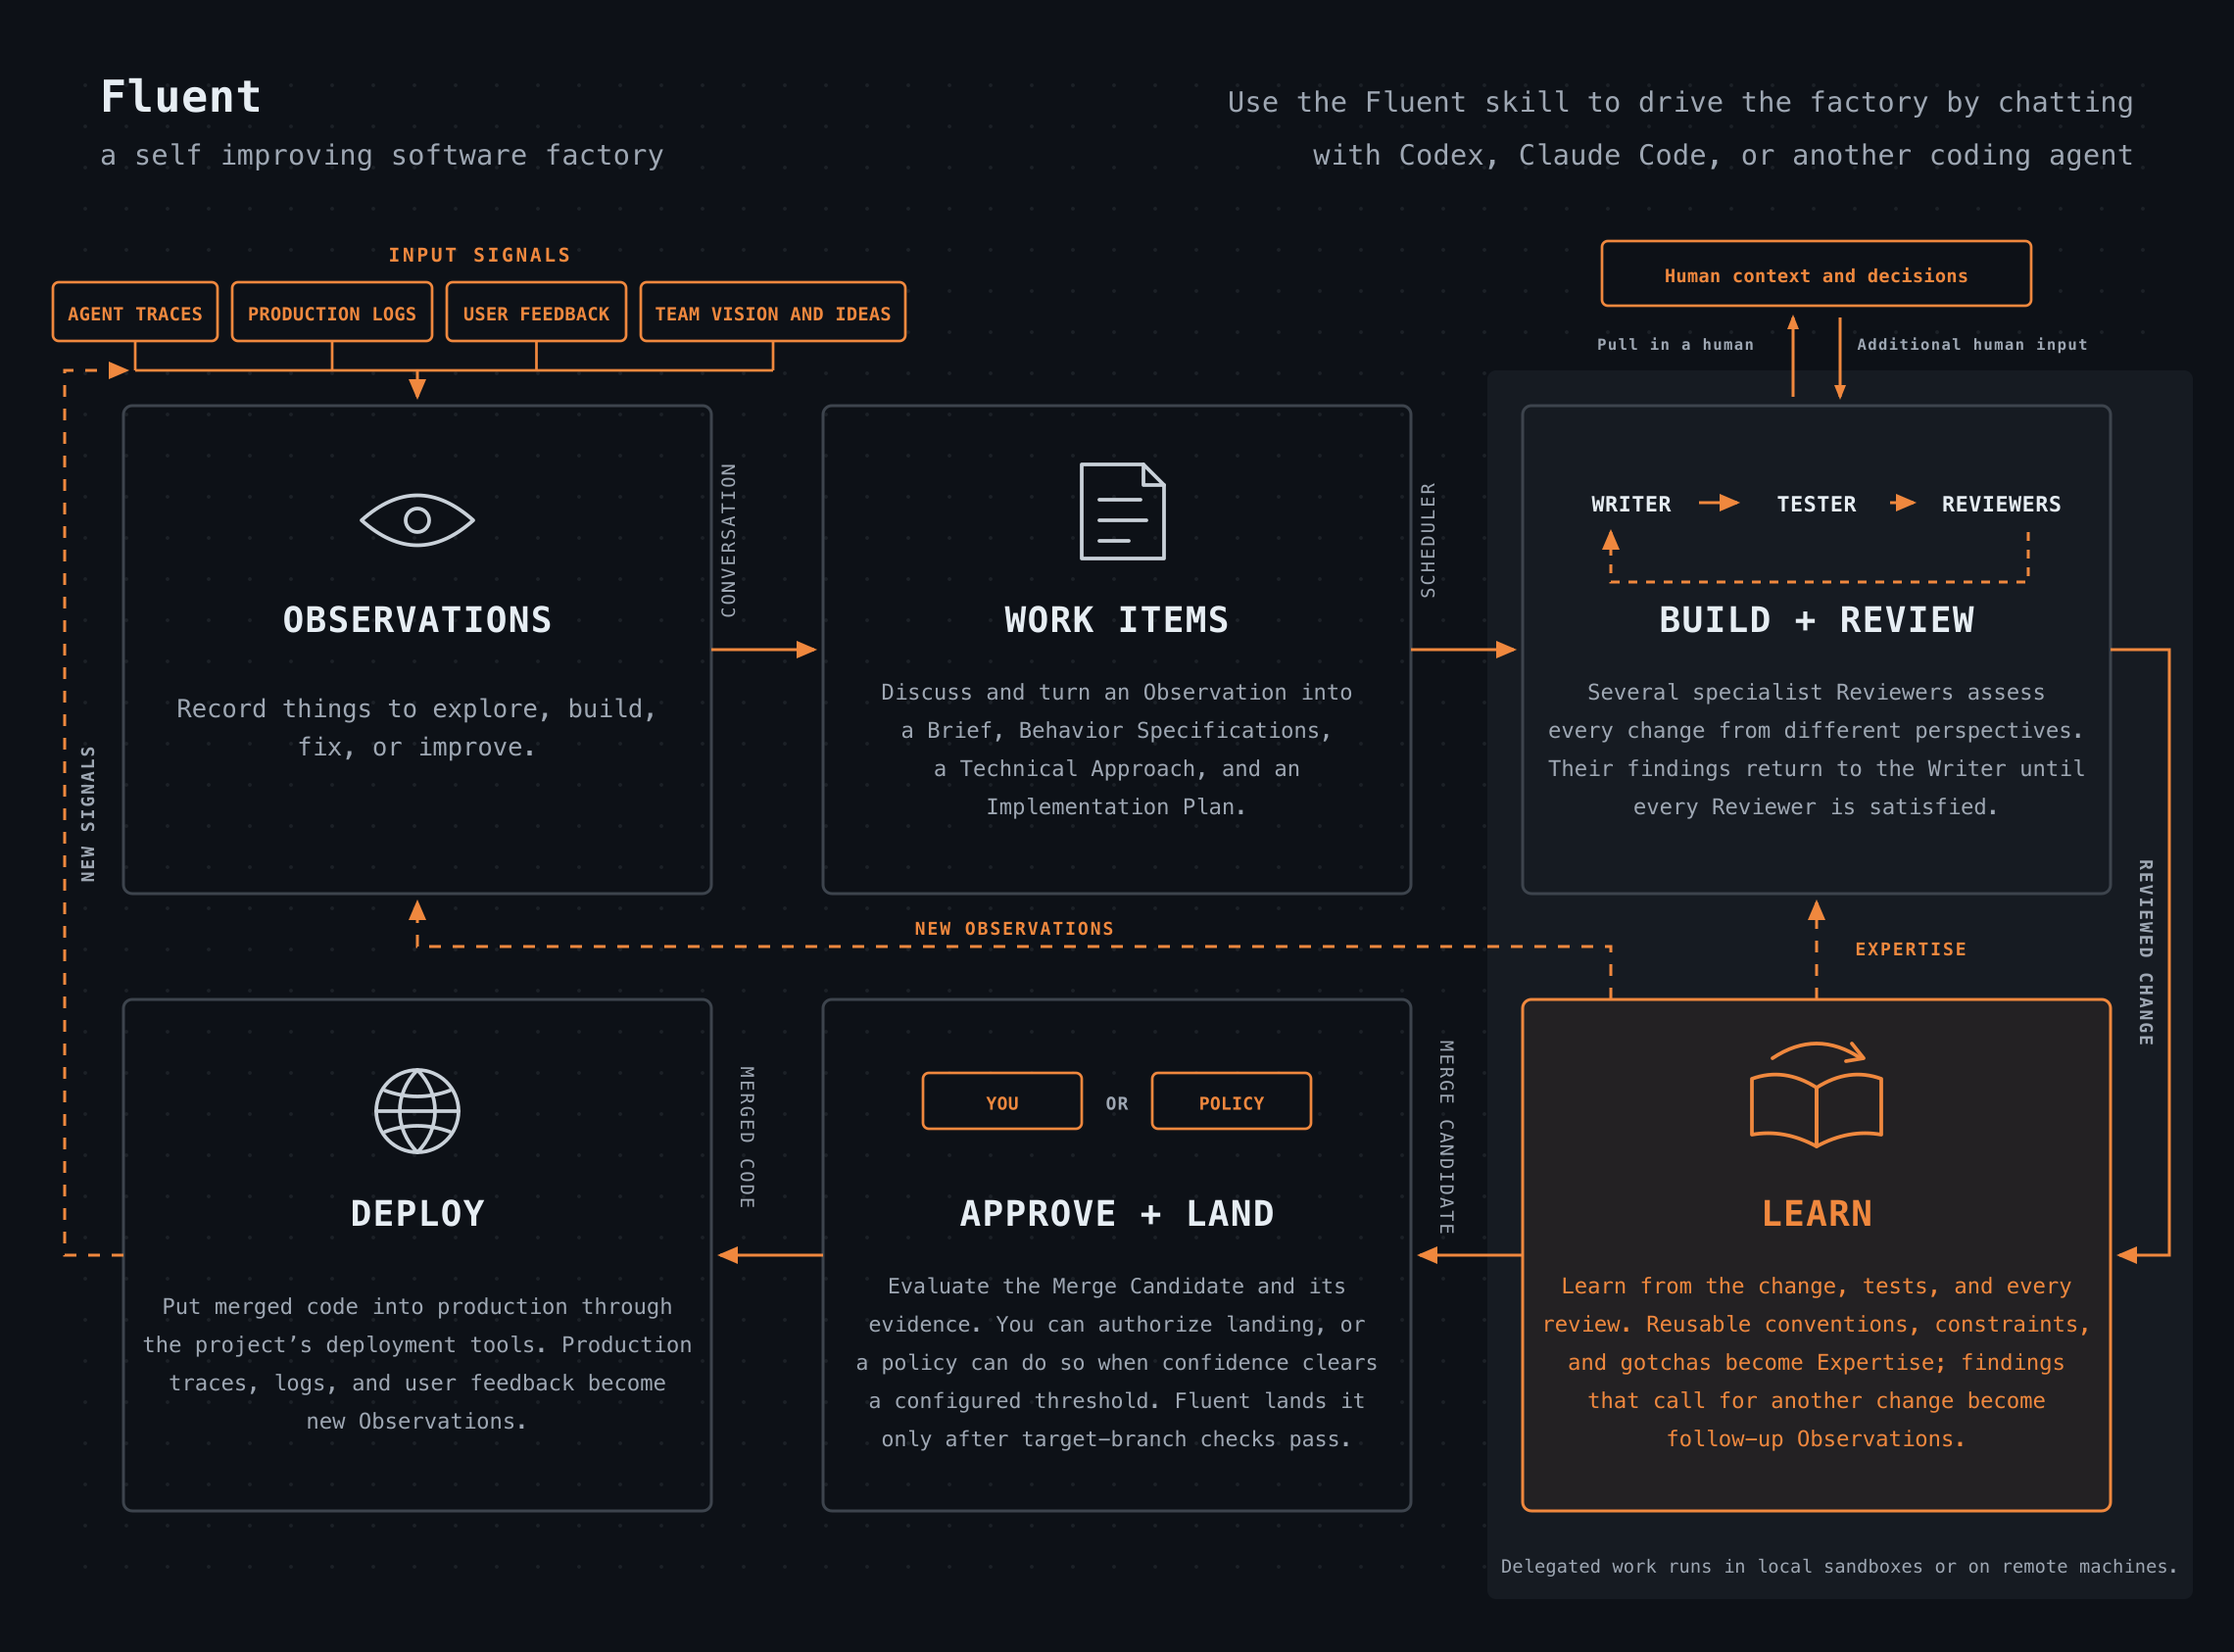
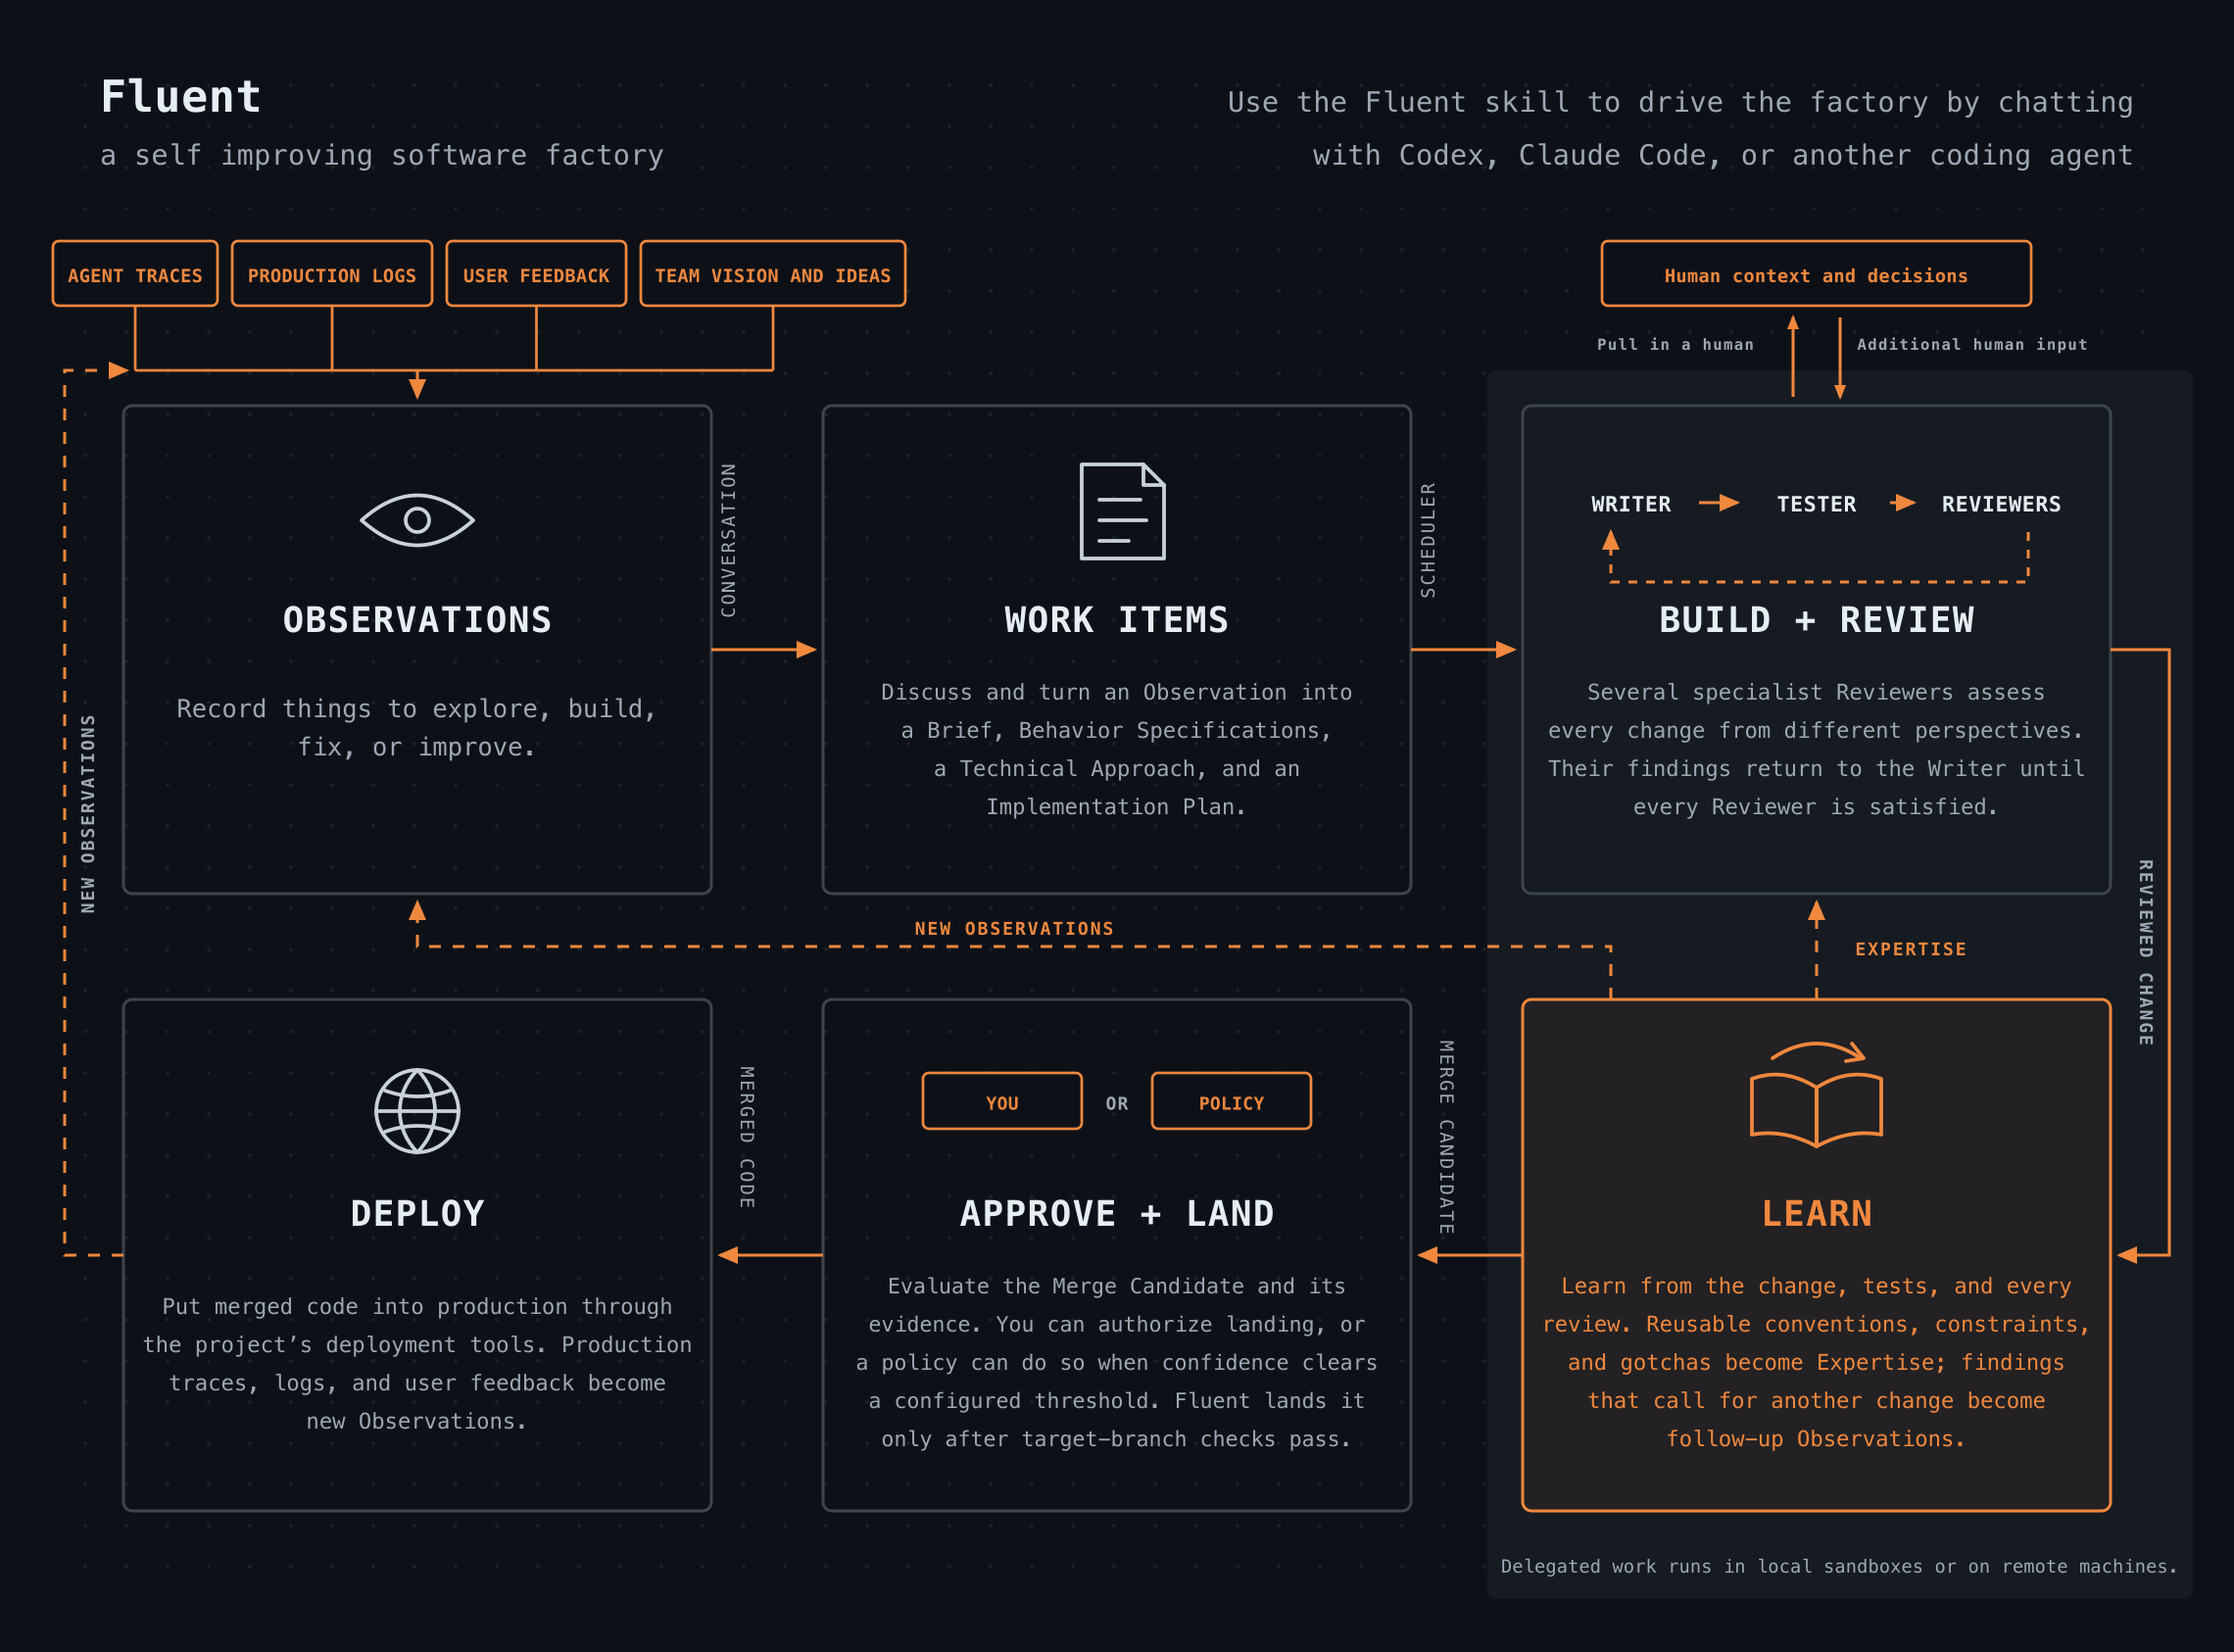
Use Observations throughout README diagrams

Changed region(s): [[0.0311, 0.1234, 0.4048, 0.2159], [0.0311, 0.4318, 0.0623, 0.5243]]

diff --git a/scripts/render-readme-diagrams.py b/scripts/render-readme-diagrams.py
@@ -49,11 +49,11 @@ DIAGRAMS = (
 )
 
 FLOW_TRACKS = (
-    # Input signals converge on Observations.
-    Track(((46, 116), (46, 126), (142, 126), (142, 135)), cycles=1, offset=0.00),
-    Track(((113, 116), (113, 126), (142, 126), (142, 135)), cycles=2, offset=0.25),
-    Track(((182.5, 116), (182.5, 126), (142, 126), (142, 135)), cycles=1, offset=0.50),
-    Track(((263, 116), (263, 126), (142, 126), (142, 135)), cycles=1, offset=0.75),
+    # Observation sources converge on Observations.
+    Track(((46, 104), (46, 126), (142, 126), (142, 135)), cycles=1, offset=0.00),
+    Track(((113, 104), (113, 126), (142, 126), (142, 135)), cycles=2, offset=0.25),
+    Track(((182.5, 104), (182.5, 126), (142, 126), (142, 135)), cycles=1, offset=0.50),
+    Track(((263, 104), (263, 126), (142, 126), (142, 135)), cycles=1, offset=0.75),
     # Primary production flow.
     Track(((242, 221), (277, 221)), cycles=2, offset=0.05),
     Track(((480, 221), (515, 221)), cycles=2, offset=0.38),
